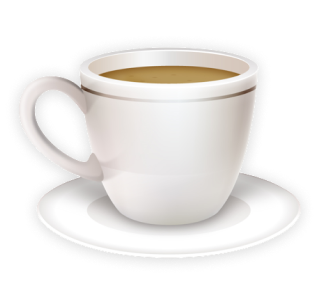
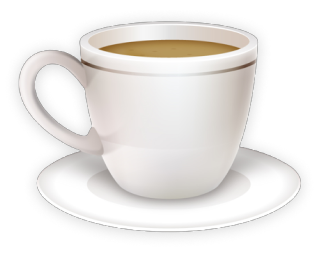
feat: animating smoke

diff --git a/app/src/screens/CoffeeDetails/index.tsx b/app/src/screens/CoffeeDetails/index.tsx
@@ -3,7 +3,6 @@ import React, { useState } from 'react';
 import { useRoute } from '@react-navigation/native';
 import { StatusBar } from 'expo-status-bar';
 
-import { Images } from '@/assets';
 import BackButton from '@/components/BackButton';
 import Button from '@/components/Button';
 import CartButton from '@/components/CartButton';
@@ -13,17 +12,16 @@ import Typography from '@/components/Typography';
 import theme from '@/styles/theme';
 import { Size } from '@/types/size';
 
+import CoffeeImage from './CoffeeImage';
 import Quantity from './Quantity';
 import SizeButton from './SizeButton';
 
 import {
   Add,
-  Coffee,
   Header,
   Info,
   Main,
   Options,
-  Photo,
   Price,
   PrincipalInfoWrapper,
   Sizes,
@@ -93,9 +91,7 @@ function CoffeeDetails() {
             {description}
           </Typography>
         </Info>
-        <Coffee>
-          <Photo source={Images.Coffee} />
-        </Coffee>
+        <CoffeeImage />
       </Main>
       <Options>
         <Typography size="large" type="text" color="neutral" variation={400}>

diff --git a/app/src/screens/CoffeeDetails/CoffeeImage/index.tsx b/app/src/screens/CoffeeDetails/CoffeeImage/index.tsx
@@ -1,0 +1,29 @@
+import { useEffect, useState } from 'react';
+
+import { Images } from '@/assets';
+import { Smokes } from '@/assets/Smoke';
+
+import { Coffee, Photo, SmokeAnimation, Wrapper } from './styles';
+
+function CoffeeImage() {
+  const [index, setIndex] = useState(9);
+
+  useEffect(() => {
+    const interval = setInterval(() => {
+      setIndex((prev) => (prev === 0 ? 9 : prev - 1));
+    }, 100);
+
+    return () => clearInterval(interval);
+  }, []);
+
+  return (
+    <Coffee>
+      <Wrapper>
+        <SmokeAnimation source={Smokes[index]} />
+        <Photo source={Images.Coffee} />
+      </Wrapper>
+    </Coffee>
+  );
+}
+
+export default CoffeeImage;

diff --git a/app/src/assets/Smoke/index.ts b/app/src/assets/Smoke/index.ts
@@ -1,0 +1,23 @@
+import { default as First } from './Smoke1.png';
+import { default as Tenth } from './Smoke10.png';
+import { default as Second } from './Smoke2.png';
+import { default as Third } from './Smoke3.png';
+import { default as Fourth } from './Smoke4.png';
+import { default as Fifth } from './Smoke5.png';
+import { default as Sixth } from './Smoke6.png';
+import { default as Seventh } from './Smoke7.png';
+import { default as Eighth } from './Smoke8.png';
+import { default as Ninth } from './Smoke9.png';
+
+export const Smokes = [
+  First,
+  Second,
+  Third,
+  Fourth,
+  Fifth,
+  Sixth,
+  Seventh,
+  Eighth,
+  Ninth,
+  Tenth,
+];

diff --git a/app/src/screens/CoffeeDetails/CoffeeImage/styles.ts b/app/src/screens/CoffeeDetails/CoffeeImage/styles.ts
@@ -1,0 +1,33 @@
+import { Image, View } from 'react-native';
+import styled from 'styled-components';
+
+export const Coffee = styled(View)`
+  position: relative;
+  align-items: center;
+  height: 100%;
+  width: 100%;
+  flex: 1;
+`;
+
+export const Wrapper = styled(View)`
+  height: 120%;
+  position: absolute;
+  bottom: -20%;
+  align-items: center;
+  justify-content: center;
+  flex: 1;
+`;
+
+export const Photo = styled(Image)`
+  object-fit: contain;
+  flex: 3;
+  min-height: 140px;
+`;
+
+export const SmokeAnimation = styled(Image)`
+  margin-bottom: -2%;
+  min-height: 100px;
+  flex: 2;
+  object-fit: contain;
+  z-index: 2;
+`;

diff --git a/app/src/screens/CoffeeDetails/styles.ts b/app/src/screens/CoffeeDetails/styles.ts
@@ -1,4 +1,4 @@
-import { Image, View } from 'react-native';
+import { View } from 'react-native';
 import { styled } from 'styled-components';
 
 export const Header = styled(View)`
@@ -39,19 +39,6 @@ export const PrincipalInfoWrapper = styled(View)`
 export const Price = styled(View)`
   flex-direction: row;
   align-items: center;
-`;
-
-export const Coffee = styled(View)`
-  align-items: center;
-  flex: 1;
-`;
-
-export const Photo = styled(Image)`
-  bottom: -17.5%;
-  width: 100%;
-  height: 100%;
-  aspect-ratio: 295/260;
-  min-width: 180px;
 `;
 
 export const Options = styled(View)`
